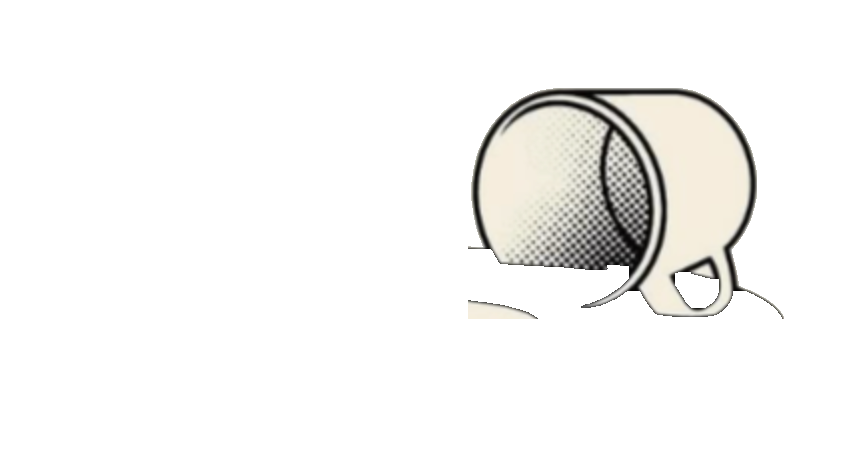
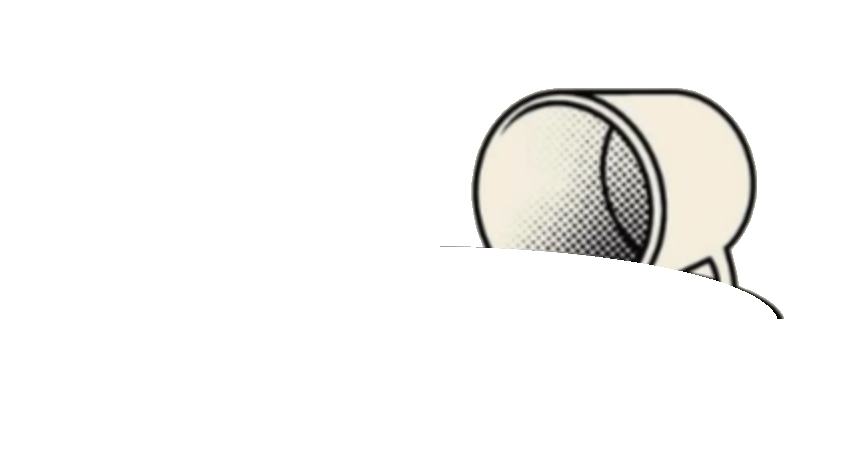
Spin only the black spill as a crisp vinyl, keep the cup still

Changed region(s): [[0.548, 0.5242, 0.9133, 0.7093], [0.548, 0.6476, 0.6393, 0.7093]]

diff --git a/app/page.tsx b/app/page.tsx
@@ -99,7 +99,7 @@ return <div ref={root}><header className="site-header"><a href="#top" className=
 <div className="night"><section id="work" className="section work"><div className="section-heading"><span className="eyebrow">02 / curiosity at work</span><h2>what i've been<br/>up to!</h2></div><div className="work-grid timeline-only"><div className="work-list">{data.work.map(([date,text],i)=><div className="work-row" key={i}><span className="date">{date}</span><p>{text.includes('embermore')?<a className="work-link" href={EMBERMORE_URL} target="_blank" rel="noreferrer">{text} ↗</a>:text}</p></div>)}<a className="pill" href="https://roicedecastro.substack.com" target="_blank" rel="noreferrer">i write on substack! →</a></div></div></section>
 <section className="section editorial-gallery"><div className="editorial-heading"><div><span className="eyebrow">03 / the moments in between</span><h2>life outside<br/><em>the lab.</em></h2></div><p>people, projects,<br/>and places along the way.</p></div><p className="gallery-instruction">tap a gallery to open it.</p><div className="editorial-grid"><article className="editorial-card editorial-humans"><PhotoReel names={humanPics} onOpen={openPhoto} label="humans"/><button className="editorial-category" onClick={()=>setModal('humans')}><span className="editorial-card-title"><h3>humans</h3><span>open ↗</span></span><p>everyone else, in no particular order.</p></button></article><article className="editorial-card editorial-talks"><PhotoReel names={conferencePics} onOpen={openPhoto} label="doer"/><button className="editorial-category" onClick={()=>setModal('talks')}><span className="editorial-card-title"><h3>doer.</h3><span>open ↗</span></span><p>talks, awards, conferences, and everything in between.</p></button></article><article className="editorial-card editorial-builds"><PhotoReel names={buildPics} onOpen={openPhoto} label="builds"/><button className="editorial-category" onClick={()=>setModal('builds')}><span className="editorial-card-title"><h3>builds</h3><span>open ↗</span></span><p>hands-on, half-finished, and made together.</p></button></article></div></section>
 <section id="music" className="piano-scene scene"><div className="scene-inner"><div className="eyebrow">04 / a different kind of language</div><div className="music-heading"><h2>my name is a melody<span>♪</span></h2><span className="piano-ready">touch a key. make a little music.</span></div><p className="music-fact">fun fact! using the french musical cryptogram (the same trick composers used to spell haydn), r-o-i-c-e becomes d-a-b-c-e.</p><div className="score"><div className="score-label"><span>roice</span><span>roice de castro</span></div><svg viewBox="0 0 900 180" aria-label="sheet music: d4, a4, b4, c5, e5"><g stroke="#aeb6b0" strokeWidth="1">{[50,70,90,110,130].map(y=><path key={y} className="staff-line" d={`M20 ${y}H880`}/>)}</g><text x="28" y="128" fill="#e5e2dd" fontSize="95">𝄞</text>{[140,100,90,80,60].map((y,i)=><g className="music-note" key={i}><ellipse cx={190+i*145} cy={y} rx="12" ry="8" transform={`rotate(-20 ${190+i*145} ${y})`} fill={i===4?'#303432':'#e5e2dd'} stroke="#e5e2dd" strokeWidth="3"/><path d={`M${201+i*145} ${y}V${y-55}`} stroke="#e5e2dd" strokeWidth="3"/>{(i===2||i===3)&&<path d={`M${201+i*145} ${y-55}q25 15 6 34`} fill="none" stroke="#e5e2dd" strokeWidth="3"/>}<text x={181+i*145} y="174" fill="#bec6be" fontSize="19">{'ROICE'[i]}</text>{i===4&&<text x="755" y="25" fill="white" fontSize="26">𝄐</text>}</g>)}</svg></div><div className="keyboard">{whiteNotes.map((n,i)=><div className="key-wrap" key={n}><button data-note={n} className={'white-key '+(active===n?'pressed':'')} onClick={()=>play(n)} aria-label={'play '+n}>{motif.includes(n)?<span>{'ROICE'[motif.indexOf(n)]}</span>:null}<small>{n}</small></button>{![2,6,9,13].includes(i)&&<button className={'black-key '+(active===n.replace(/\d/,'#'+n.slice(-1))?'pressed':'')} aria-label={'play '+n[0]+' sharp '+n.slice(-1)} onClick={()=>play(n[0]+'#'+n.slice(-1))}/>}</div>)}</div><p className="keyboard-hint">{pianoError?'tap a key again to enable audio.':'a little piece of me, in five notes. · always ready to play'}</p></div><div className="rain">{Array.from({length:24},(_,i)=><i key={i} style={{left:`${i*4.3}%`,animationDelay:`${i*.17}s`,animationDuration:`${1.4+i%3*.4}s`}}/>)}</div></section>
-<section className="coffee-scene" id="on-repeat"><div className="coffee-topline"><span className="eyebrow">05 / on repeat</span><span>{coffeeProgress<.32?'coffee first.':coffeeProgress<.62?'oops.':'press play.'}</span></div><h2 className="coffee-title">friendly pressure,<br/><em>on repeat.</em></h2><div className="coffee-experience"><div className="spill-stage"><div className="full-coffee-cup" aria-hidden="true"><div className="full-cup-rim"><i/></div><div className="full-cup-body"/><div className="full-cup-handle"/><div className="full-cup-saucer"/><span className="full-steam steam-a"/><span className="full-steam steam-b"/></div><div className={'spill-art '+((playing||coffeeProgress>.48)?'is-playing':'')} role="img" aria-label="a tipped coffee cup whose spill spins like a vinyl record"><img className="spill-record" src="/art/spill-record.png" alt="" width="854" height="454"/><img className="spill-cup" src="/art/spill-cup.png" alt="" width="854" height="454"/></div></div><div className="photo-fade" aria-live="off">{vinylPhotos.map((name,i)=><Photo key={name} name={name} className={polaroid===i?'active':''}/>)}<span>{vinylCaptions[polaroid]}</span></div></div><div className="coffee-controls"><button onClick={enable} className="coffee-play" aria-label={playing?'pause music':'play friendly pressure from the chorus'}>{playing?'Ⅱ pause':'▷ play the chorus'}</button><span>{playing?'friendly pressure — into the sunshine edit':'jhelisa / sunship'}</span></div></section>
+<section className="coffee-scene" id="on-repeat"><div className="coffee-topline"><span className="eyebrow">05 / on repeat</span><span>{coffeeProgress<.32?'coffee first.':coffeeProgress<.62?'oops.':'press play.'}</span></div><h2 className="coffee-title">friendly pressure,<br/><em>on repeat.</em></h2><div className="coffee-experience"><div className="spill-stage"><div className="full-coffee-cup" aria-hidden="true"><div className="full-cup-rim"><i/></div><div className="full-cup-body"/><div className="full-cup-handle"/><div className="full-cup-saucer"/><span className="full-steam steam-a"/><span className="full-steam steam-b"/></div><div className={'spill-art '+((playing||coffeeProgress>.48)?'is-playing':'')} role="img" aria-label="a tipped coffee cup whose spill spins like a vinyl record"><svg className="spill-record" viewBox="0 0 860 860" aria-hidden="true"><g fill="#000"><circle cx="430" cy="430" r="364"/><ellipse cx="205" cy="722" rx="48" ry="30" transform="rotate(-40 205 722)"/><ellipse cx="330" cy="786" rx="58" ry="26" transform="rotate(-12 330 786)"/><circle cx="128" cy="776" r="17"/></g><g fill="none" stroke="#1f1d1a" strokeWidth="2">{[165,200,235,270,305,338].map(r=><circle key={r} cx="430" cy="430" r={r}/>)}</g><circle cx="430" cy="430" r="121" fill="#f6eddd"/><path d="M345 400A92 92 0 0 1 515 400" fill="none" stroke="#2a2520" strokeWidth="9" strokeLinecap="round"/><path d="M372 482A70 70 0 0 0 488 482" fill="none" stroke="#9c9285" strokeWidth="5" strokeLinecap="round"/><circle cx="430" cy="430" r="9" fill="#000"/></svg><img className="spill-cup" src="/art/spill-cup.png" alt="" width="854" height="454"/></div></div><div className="photo-fade" aria-live="off">{vinylPhotos.map((name,i)=><Photo key={name} name={name} className={polaroid===i?'active':''}/>)}<span>{vinylCaptions[polaroid]}</span></div></div><div className="coffee-controls"><button onClick={enable} className="coffee-play" aria-label={playing?'pause music':'play friendly pressure from the chorus'}>{playing?'Ⅱ pause':'▷ play the chorus'}</button><span>{playing?'friendly pressure — into the sunshine edit':'jhelisa / sunship'}</span></div></section>
 <section className="photo-player-section section music-player-only" id="photo-player"><div className="photo-player-copy"><span className="eyebrow">still on repeat</span><h2>friendly pressure.</h2><p>press play, or leave it spinning.</p><div className="now-playing"><button className="vinyl-play" onClick={enable} aria-label={playing?'pause song':'play song from the chorus'}>{playing?'Ⅱ':'▷'}</button><div><span>{playing?'now playing':'on the record'}</span><h3>friendly pressure</h3><p>into the sunshine edit</p><small>jhelisa / sunship</small></div></div><div className="song-player" id="vinyl-player" ref={playerHost}/><p className="audio-status" aria-live="polite">{songStatus==='unavailable'?<>player unavailable. <a href="https://www.youtube.com/watch?v=46IM2--jn8Y&t=91s" target="_blank" rel="noreferrer">listen on youtube</a></>:songStatus==='loading'?'if the music has not started, press play in the player above.':'starts at the chorus (1:31)'}</p></div></section>
 <footer id="say-hi" className="section footer"><span className="eyebrow">good things start with a conversation.</span><h2>say hi!</h2><div className="contact-links"><a className="pill" href="https://linkedin.com/in/roicedecastro" target="_blank" rel="noreferrer">linkedin ↗</a><a className="pill" href="https://roicedecastro.substack.com" target="_blank" rel="noreferrer">substack ↗</a><a className="pill" href="mailto:0725131@my.msjc.edu">email ↗</a></div><p>also: american red cross disaster volunteer + av tech at st. catherine of alexandria church </p><div className="footer-bottom"><span>made with love from guam </span><span>© 2026 roice de castro</span></div></footer></div>
 <Dialog open={!!modal} onOpenChange={o=>!o&&setModal(null)}><DialogContent className="glass-modal gallery-modal" data-lenis-prevent><DialogTitle className="modal-title">{modal==='talks'?'doer.':modal}</DialogTitle><DialogDescription className="modal-description">{modal==='humans'?'people, as they happened.':modal==='talks'?'talks, awards, conferences, and everything in between.':'things made by hand, together.'}</DialogDescription>{modal==='humans'&&<GalleryGrid names={humanPics} onOpen={openPhoto} captions={humanCaptions}/>} {modal==='talks'&&<><GalleryGrid names={conferencePics} onOpen={openPhoto}/><div className="talk-list">{data.talks.map(([title,venue,type],i)=><article key={i}><div><h3>{title}</h3><p>{venue}</p></div><span className={'type '+type}>{type}</span></article>)}</div></>} {modal==='builds'&&<><GalleryGrid names={buildPics} onOpen={openPhoto}/><div className="build-notes">{data.builds.map(([title,desc])=><article className="build-tile" key={title}><h3>{title}</h3><p>{desc}</p>{buildExtras[title]?.link&&<a className="build-link" href={buildExtras[title].link} target="_blank" rel="noreferrer">visit embermore ↗</a>}</article>)}</div></>}</DialogContent></Dialog><Dialog open={!!lightbox} onOpenChange={o=>{if(!o){setLightbox(null);setZoom(false)}}}><DialogContent className="photo-lightbox" data-lenis-prevent><DialogTitle className="sr-only">photograph close-up</DialogTitle><DialogDescription className="lightbox-caption">{lightbox?photos[lightbox]:''}</DialogDescription><div className={'lightbox-image-area '+(zoom?'zoomed':'')} data-lenis-prevent>{lightbox&&<img src={'/photos/'+lightbox+'.jpg'} alt={photos[lightbox]||'photograph'} onClick={()=>setZoom(v=>!v)} width="1500" height="1500"/>}</div><div className="lightbox-controls"><button onClick={()=>stepPhoto(-1)} aria-label="previous photograph">← previous</button><button onClick={()=>setZoom(v=>!v)} aria-pressed={zoom}>{zoom?'fit image':'zoom 2×'}</button><button onClick={()=>stepPhoto(1)} aria-label="next photograph">next →</button></div></DialogContent></Dialog></div>}

diff --git a/app/globals.css b/app/globals.css
@@ -95,3 +95,6 @@
 @keyframes spillVinyl{from{transform:scaleY(.225) rotate(0deg) scaleY(4.444)}to{transform:scaleY(.225) rotate(360deg) scaleY(4.444)}}
 @media(max-width:900px){.photo-fade{height:400px}}@media(max-width:600px){.spill-art{width:100%}.photo-fade{height:340px;width:78%}}
 @media(prefers-reduced-motion:reduce){.spill-record{animation:none!important}.spill-art,.photo-fade{opacity:1!important}}
+.spill-art .spill-record{position:absolute;left:calc((418 - 430) / 854 * 100%);top:calc((324 - 430) / 454 * 100%);width:calc(860 / 854 * 100%);height:calc(860 / 454 * 100%);right:auto;bottom:auto;transform-origin:50% 50%;transform:scaleY(.222);animation:spillVinylCrisp 2.4s linear infinite;animation-play-state:paused;overflow:visible}.spill-art.is-playing .spill-record{animation-play-state:running}
+@keyframes spillVinylCrisp{from{transform:scaleY(.222) rotate(0deg)}to{transform:scaleY(.222) rotate(360deg)}}
+@media(prefers-reduced-motion:reduce){.spill-art .spill-record{animation:none!important}}
